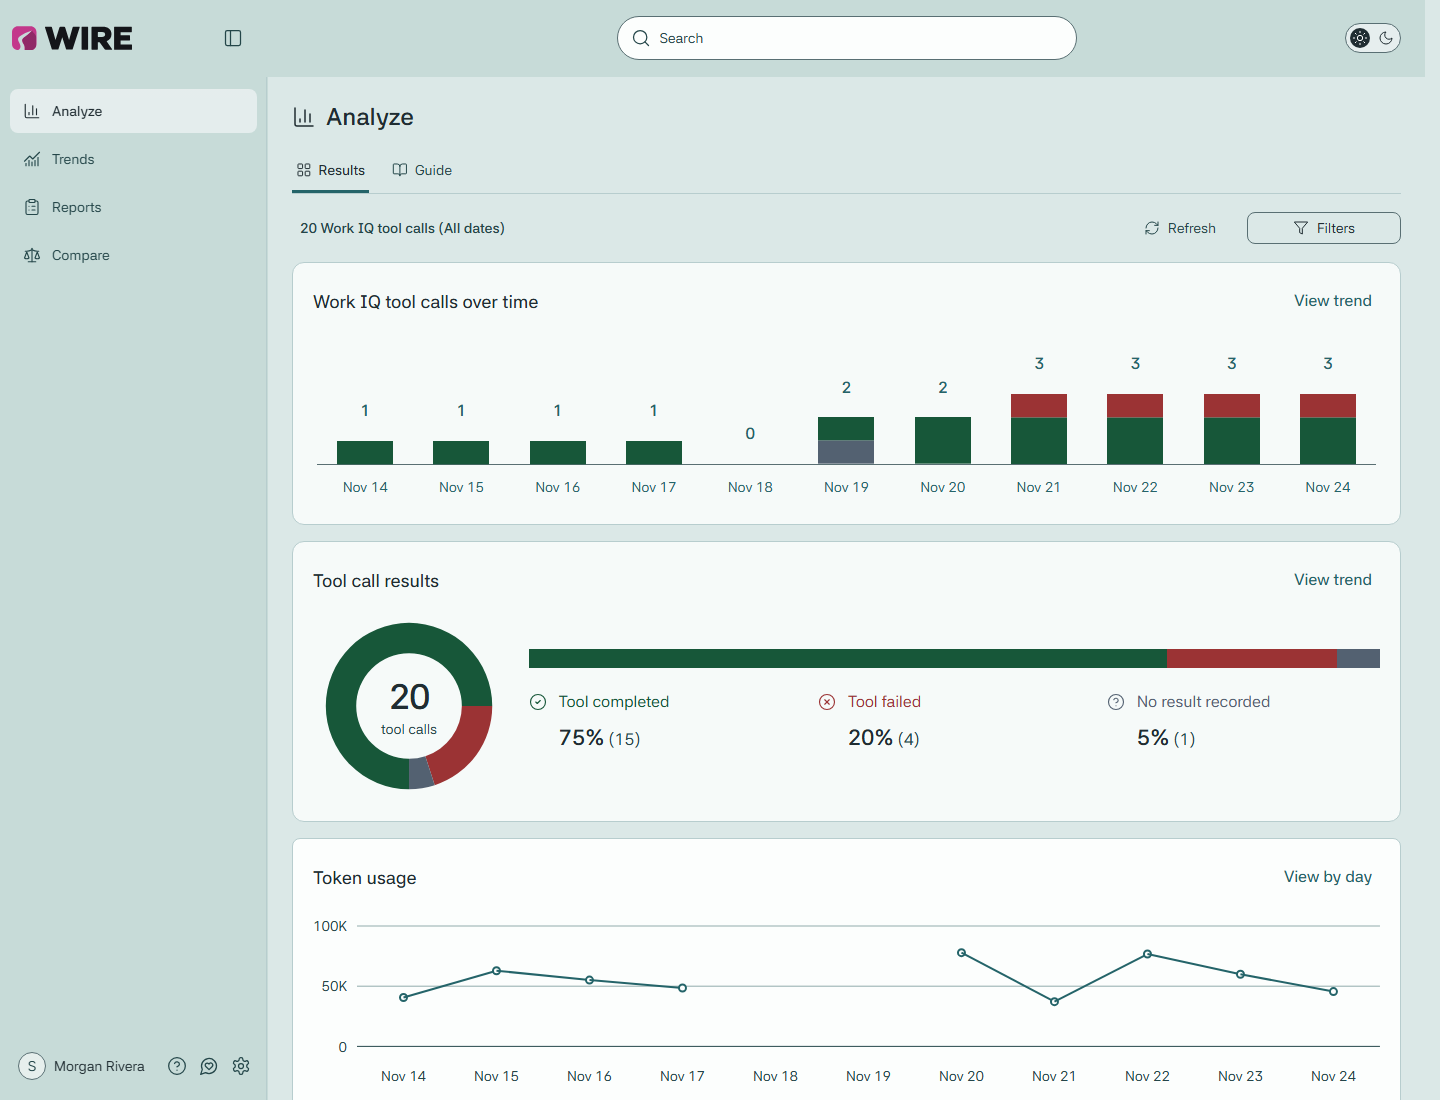
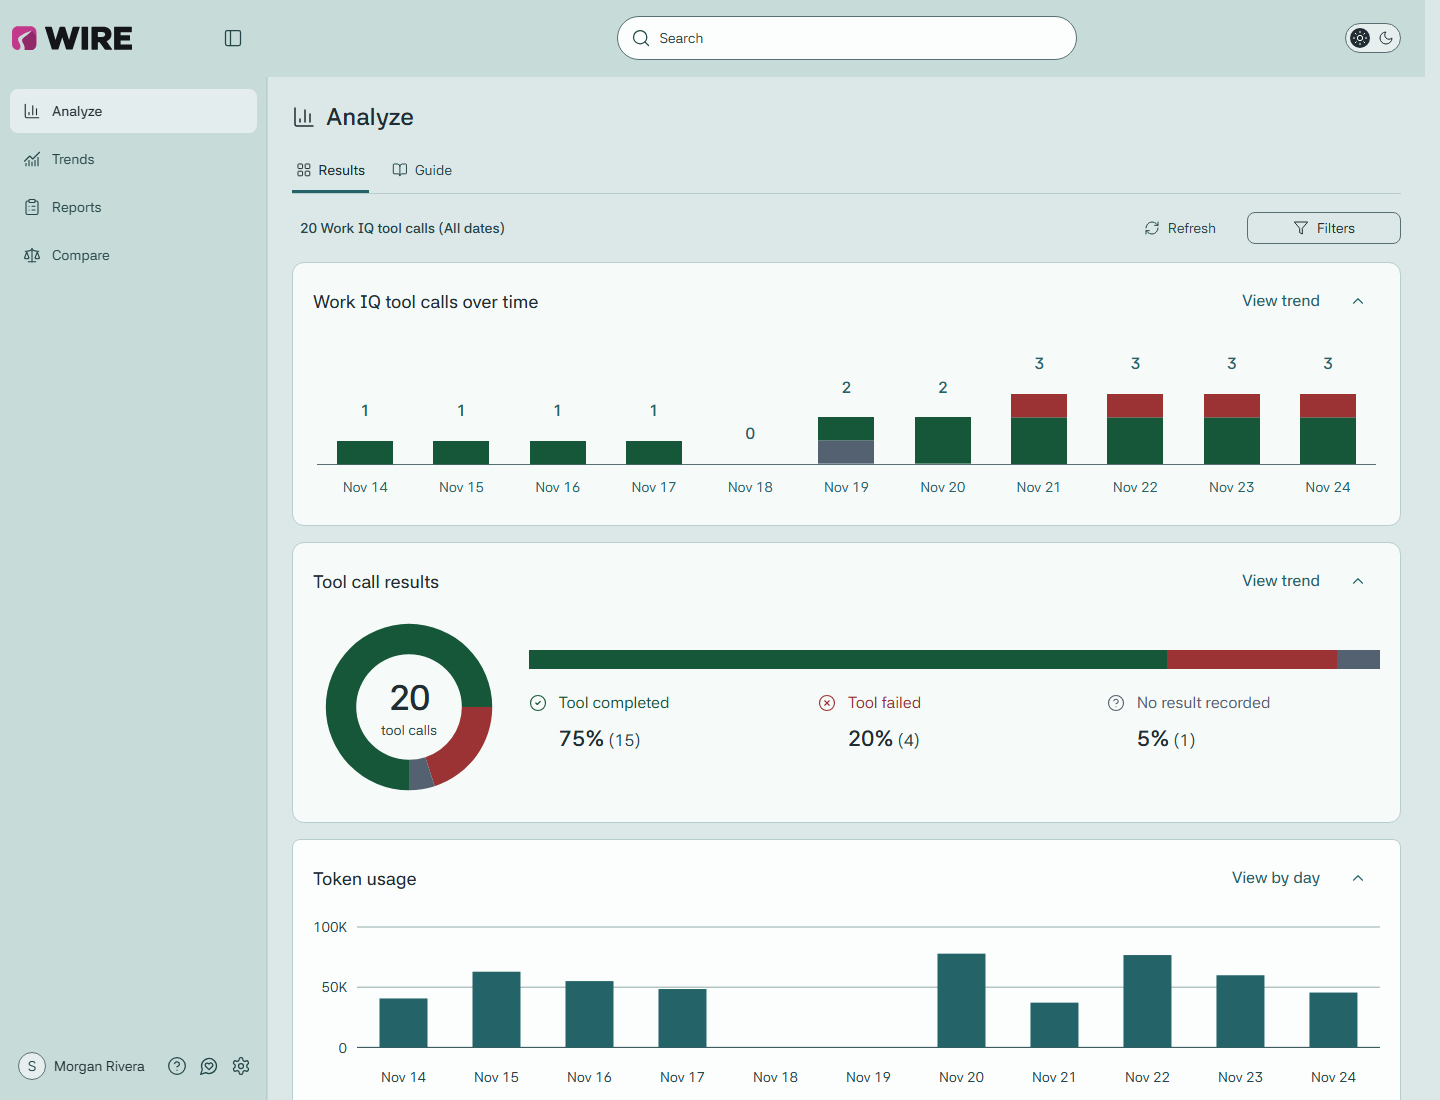
Show the Analyze controls and token columns in the user guide

diff --git a/docs/user-guide.md b/docs/user-guide.md
@@ -91,7 +91,7 @@ interaction list follows the same filters. Open **Filters** to narrow the view
 by Dates, Tool, Service involved, Outcome or Prompt author; **More filters**
 holds the additional choices.
 
-![Analyze Results with daily tool calls, recorded outcomes, daily token usage and the interactions behind them.](images/analyze.png)
+![Analyze Results with daily tool calls, recorded outcomes, daily token columns and collapse controls at the right of each chart heading.](images/analyze.png)
 
 ### Read the charts
 
@@ -216,12 +216,11 @@ change. Compare's separate Day/Week/Month control does not change Analyze.
 
 **Token usage** labels each day in the chosen range, including
 days without a count. Scroll along the date axis on narrow screens or long
-ranges; periods over 90 days have earlier and later windows. Each measured day
-has a vertical column. Hover over a column
-to see its date and token count beside the pointer. Tap a day or use the arrow
-keys to inspect it. A dot on zero is a measured zero. For a gap,
-the date reading distinguishes activity without a count from no matching activity.
-WIRE leaves gaps between measured days; it doesn't estimate the missing usage.
+ranges; periods over 90 days have earlier and later windows. A column shows a
+positive token count; a dot on the baseline marks a measured zero. Hover over
+a column to see its date and count. Tap a day or use the arrow keys to inspect
+it. On a day without a mark, the reading distinguishes activity without a token
+count from no matching activity. WIRE doesn't estimate missing usage.
 Click or tap to hold a reading, then select its date to open the evidence in
 Trends. Choose **View by day** for the whole period.
 
